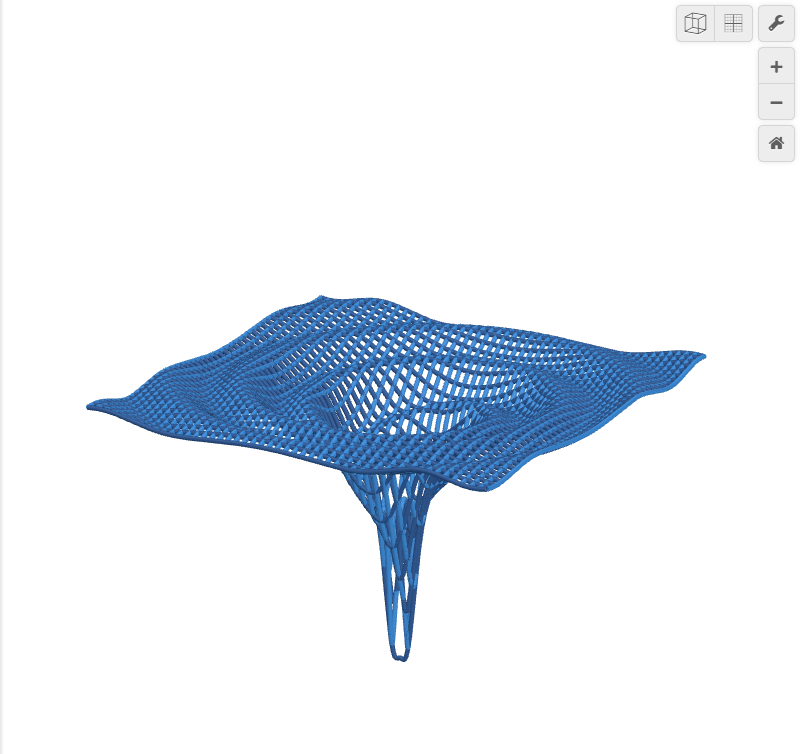
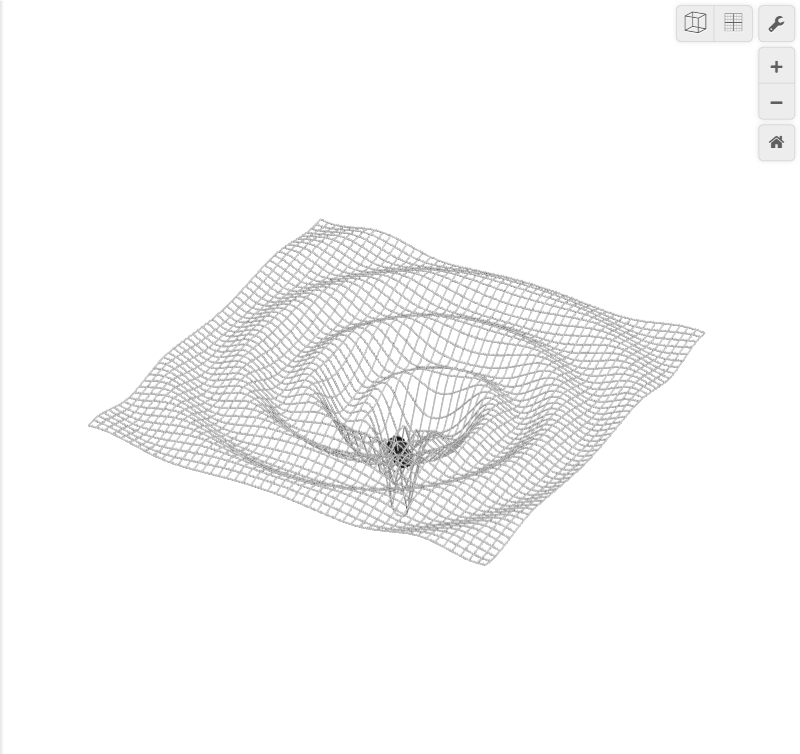
feat(visual): hairline grey fabric, floating black-hole dots, slow smooth playback
Light-grey 0.3-width fabric; two mass-sized black dots that float above the
local fabric height and merge into one larger dot at T_m + plunge; wider and
shallower wells, higher camera and a gentler merger peak so the dots are never
hidden; 45 s / 0.01-step playback. Checkpoints re-captured on a GPU-backed
browser; docs updated.

Changed region(s): [[0.0938, 0.2745, 0.875, 0.8846], [0.9062, 0.0, 0.9375, 0.061], [0.8438, 0.0, 0.875, 0.061]]

diff --git a/scripts/build_state.py b/scripts/build_state.py
@@ -44,8 +44,8 @@ ex["time_T"]["slider"].update(min="0", max="18", step="0.05")
 for i, v, lo, hi in [
     ("time_Tm", "T_{m}=10", 4, 14), ("rad_R0", "R_{0}=5", 2, 7),
     ("mass_m1", "M_{1}=1", 0.2, 3), ("mass_m2", "M_{2}=1", 0.2, 3),
-    ("amp_A", "A=1.7", 0.2, 4), ("scale_S", "S=2.2", 0, 5),
-    ("eps", "e_{0}=0.8", 0.3, 2), ("wave_v", "v_{w}=2.2", 0.8, 4),
+    ("amp_A", "A=1.2", 0.2, 4), ("scale_S", "S=2.2", 0, 5),
+    ("eps", "e_{0}=1", 0.3, 2), ("wave_v", "v_{w}=2.2", 0.8, 4),
 ]:
     upsert(i, v, hidden=False)
     slider(i, lo, hi)
@@ -55,8 +55,8 @@ slider("wave_Q", 1, 8)
 # --- physical constants and derived scales -----------------------------------
 upsert("phys_qc", r"q_{c}=0.6")                 # R_c / R_0 = 6M / 10M (ISCO contact)
 upsert("phys_dp", r"\Delta_{p}=0.6")            # plunge duration (animation time)
-upsert("phys_gr", r"g_{r}=1.8")                 # ringdown / contact frequency ratio (real ~3.9, capped: mesh resolution)
-upsert("phys_ap", r"A_{p}=1.6")                 # peak merger amplitude (relative)
+upsert("phys_gr", r"g_{r}=1.5")                 # ringdown / contact frequency ratio (real ~3.9, capped: mesh resolution)
+upsert("phys_ap", r"A_{p}=0.85")                 # peak merger amplitude (relative)
 upsert("phys_ai", r"a_{i}=0.22")                # inspiral amplitude at contact (relative)
 upsert("phys_er", r"\epsilon_{r}=0.046")        # fraction of mass radiated (GW150914: ~3 of 65 Msun)
 upsert("phys_eta", r"\eta=\frac{M_{1}M_{2}}{\left(M_{1}+M_{2}\right)^{2}}")
@@ -95,12 +95,31 @@ upsert("func_ztotal", r"Z\left(x,y,T\right)=z_{g}\left(x,y,T\right)+z_{w}\left(x
 HALF, STEP = 6.0, 0.25
 n = int(round(2 * HALF / STEP)) + 1
 ex["grid_list"]["latex"] = r"L_{g}=\left[" + ",".join(f"{-HALF + STEP * i:g}" for i in range(n)) + r"\right]"
-for i, col in (("grid_lines_x", "#1d4e89"), ("grid_lines_y", "#2f80c9")):
+for i in ("grid_lines_x", "grid_lines_y"):
+    # hairline light-grey lines: 0.3 renders as the thinnest line on a GPU-backed browser
     ex[i].update(domain={"min": str(-HALF), "max": str(HALF)},
-                 parametricDomain={"min": str(-HALF), "max": str(HALF)}, color=col, lineWidth="1")
+                 parametricDomain={"min": str(-HALF), "max": str(HALF)}, color="#bdbdbd", lineWidth="0.3")
 
-# --- markers hidden; trails ride the fabric ----------------------------------
-for i in ("bh_point1", "bh_point2", "ring_bh1", "ring_bh2"):
+# --- slow, fluid playback: 45 s per sweep of T, fine step ---------------------
+ex["time_T"]["slider"].update(animationPeriod=45000, step="0.01")
+
+# --- black holes: small black dots that ride the fabric, then merge into one bigger dot
+LIFT = 0.7  # dots float this far above the local fabric height Z, so they always sit on top of the mesh
+
+def bh_point(px, py, cond):
+    return (r"\left(" + px + "," + py + r",Z\left(" + px + "," + py + r",T\right)+" + str(LIFT) + r"\right)"
+            r"\left\{" + cond + r"\right\}")
+
+BEFORE, AFTER = r"T<T_{m}+\Delta_{p}", r"T\ge T_{m}+\Delta_{p}"
+# size grows with mass (horizon radius ~ mass); the merged dot carries the radiated-mass deficit f_m
+for i, (xf, yf), m in (("bh_point1", ("x_{1}\\left(T\\right)", "y_{1}\\left(T\\right)"), "M_{1}"),
+                       ("bh_point2", ("x_{2}\\left(T\\right)", "y_{2}\\left(T\\right)"), "M_{2}")):
+    ex[i].update(latex=bh_point(xf, yf, BEFORE), color="#000000", pointSize="1+3*" + m,
+                 hidden=False)
+    ex[i].pop("movablePointSize", None)
+upsert("bh_merged", bh_point("0", "0", AFTER), hidden=False, color="#000000",
+       pointSize=r"1+3\left(M_{1}+M_{2}\right)f_{m}\left(T\right)")
+for i in ("ring_bh1", "ring_bh2"):
     ex[i]["hidden"] = True
 for i, (xf, yf) in (("trail_obj1", ("x_{1}", "y_{1}")), ("trail_obj2", ("x_{2}", "y_{2}"))):
     px, py = xf + r"\left(t\cdot T\right)", yf + r"\left(t\cdot T\right)"
@@ -116,7 +135,7 @@ def world_rotation(yaw, elev):
     return [round(v, 6) for v in (r0[0], r1[0], r2[0], r0[1], r1[1], r2[1], r0[2], r1[2], r2[2])]
 
 vp = dict(xmin=-6.8, xmax=6.8, ymin=-6.8, ymax=6.8, zmin=-4.8, zmax=4.8)
-s["graph"].update(viewport=vp, worldRotation3D=world_rotation(30, 18),
+s["graph"].update(viewport=vp, worldRotation3D=world_rotation(30, 34),
                   showBox3D=False, showPlane3D=False, showAxis3D=False,
                   axis3D=[False, False, False], showGrid=False)
 s["graph"]["__v12ViewportLatexStash"] = {k: str(v) for k, v in vp.items()}
@@ -132,8 +151,9 @@ groups = [
      ["func_R", "func_phi", "coord_x1", "coord_y1", "coord_x2", "coord_y2", "dist_r1", "dist_r2",
       "dist_rc", "func_fm", "func_zgrav", "func_amp", "func_ur", "func_zwave", "func_ztotal"]),
     ("f_fabric", "Spacetime fabric", True, ["grid_list", "grid_lines_x", "grid_lines_y"]),
+    ("f_bh", "Black holes", True, ["bh_point1", "bh_point2", "bh_merged"]),
     ("f_optional", "Optional markers (hidden)", True,
-     ["trail_obj1", "trail_obj2", "bh_point1", "bh_point2", "rg1", "rg2", "ring_bh1", "ring_bh2"]),
+     ["trail_obj1", "trail_obj2", "rg1", "rg2", "ring_bh1", "ring_bh2"]),
 ]
 title = {"type": "text", "id": "note_title",
          "text": ("Binary merger and spacetime ripple. A mathematical visualization inspired by general "

diff --git a/docs/PARAMETERS.md b/docs/PARAMETERS.md
@@ -6,13 +6,13 @@ Defaults are written by `scripts/build_state.py`.
 
 | Symbol | Desmos id | Default | Range | Controls |
 |---|---|---|---|---|
-| `T` | `time_T` | `1` | 0 to 18 | Master clock. Press play. |
+| `T` | `time_T` | `1` | 0 to 18 | Master clock. Press play: one sweep takes 45 s (`animationPeriod`), in steps of 0.01. |
 | `T_m` | `time_Tm` | `10` | 4 to 14 | Time at which the binary reaches contact (merger rate). |
 | `R_0` | `rad_R0` | `5` | 2 to 7 | Starting separation in grid units (10 M). |
 | `M_1`, `M_2` | `mass_m1`, `mass_m2` | `1`, `1` | 0.2 to 3 | Masses: well depths, barycentre, and `eta`, which sets the number of orbits. |
-| `A` | `amp_A` | `1.7` | 0.2 to 4 | Well depth (visualization scale). |
+| `A` | `amp_A` | `1.2` | 0.2 to 4 | Well depth (visualization scale). |
 | `S` | `scale_S` | `2.2` | 0 to 5 | Ripple amplification (visualization only). |
-| `e_0` | `eps` | `0.8` | 0.3 to 2 | Well softening. |
+| `e_0` | `eps` | `1` | 0.3 to 2 | Well softening (larger: wider, shallower dips). |
 | `v_w` | `wave_v` | `2.2` | 0.8 to 4 | Ripple propagation speed (display speed). |
 | `Q_f` | `wave_Q` | `3.3` | 1 to 8 | Ringdown quality factor. Higher rings longer. |
 
@@ -22,8 +22,8 @@ Defaults are written by `scripts/build_state.py`.
 |---|---|---|---|
 | `q_c` | `phys_qc` | `0.6` | Contact radius over start radius, `6M/10M`. |
 | `Delta_p` | `phys_dp` | `0.6` | Plunge duration (animation time). |
-| `g_r` | `phys_gr` | `1.8` | Ringdown over contact GW frequency (real about 3.9; capped for grid resolution). |
-| `A_p` | `phys_ap` | `1.6` | Merger peak wave amplitude, relative. |
+| `g_r` | `phys_gr` | `1.5` | Ringdown over contact GW frequency (real about 3.9; capped for grid resolution). |
+| `A_p` | `phys_ap` | `0.85` | Merger peak wave amplitude, relative. |
 | `a_i` | `phys_ai` | `0.22` | Inspiral wave amplitude at contact, relative. |
 | `epsilon_r` | `phys_er` | `0.046` | Mass fraction radiated (GW150914: 3 of 65 solar masses). |
 
@@ -32,5 +32,7 @@ Defaults are written by `scripts/build_state.py`.
 `eta = M1 M2 / (M1+M2)^2` (`phys_eta`), `tau_p = T_m / (1 - q_c^4)` (`phys_tau`), `Phi_c = 7.127 / eta` (`phys_Phic`), and `Omega_c` (`phys_Omc`), the orbital angular frequency at contact.
 
 Fixed in the equations: the plunge exponent 1.5, the frequency-ramp shape, the wave fade-in time 0.8, the radial decay 0.35, and the well exponent 1.4 (`WELL_EXP` in the build script).
+
+Black-hole dots: `LIFT = 0.7` (height above the local fabric) and size `1 + 3 M` in `scripts/build_state.py`.
 
 Grid density: `HALF = 6`, `STEP = 0.25` in `scripts/build_state.py` (49 lines per direction).

diff --git a/docs/VISUALIZATION.md b/docs/VISUALIZATION.md
@@ -12,9 +12,9 @@ with `t` in [-6, 6] and `L_g` a list of 49 grid coordinates (spacing 0.25). Ever
 
 ## Look
 
-- Two blue tones for the two line families (`#1d4e89`, `#2f80c9`) at the minimum line width (Desmos does not go thinner than 1). Density, not line weight, gives the fabric feel.
+- Light-grey (`#bdbdbd`) hairline lines: `lineWidth` 0.3, which a GPU-backed browser draws as the thinnest line (software renderers clamp to 1 and look heavier). The mesh is subtle and reads as fabric.
 - The Desmos box, plane grid and axes are switched off in the state (`showBox3D`, `showPlane3D`, `showAxis3D`, `axis3D`), so only the fabric is drawn.
-- The black object markers and rings are hidden. The orbital trails are hidden by default and ride the fabric (`z = z_g` along the path) when switched on.
+- **Black holes**: two small black dots (size grows with mass) ride the wells, floating 0.7 above the local fabric height so they always sit on top of the mesh. At `T_m + Delta_p` they are replaced by one larger dot for the merged hole. The horizon rings stay hidden. The orbital trails are hidden by default and ride the fabric (`z = z_g` along the path) when switched on.
 - The viewport is x, y in [-7.5, 7.5] and z in [-5, 5].
 
 ## Stage guide
@@ -36,4 +36,4 @@ Checkpoints are in `assets/screenshots/checkpoints/`.
 
 ## Camera
 
-The default view is stored in the state as `graph.worldRotation3D`: a column-major 3x3 rotation that must be horizon-level (Desmos discards it otherwise). `scripts/build_state.py` builds it from a yaw and elevation (`world_rotation(yaw=30, elev=18)`). A low elevation shows funnel depth and ripple heights; about 50 degrees shows the ring and quadrupole pattern from above. The viewport is x, y in [-6.8, 6.8] and z in [-4.8, 4.8].
+The default view is stored in the state as `graph.worldRotation3D`: a column-major 3x3 rotation that must be horizon-level (Desmos discards it otherwise). `scripts/build_state.py` builds it from a yaw and elevation (`world_rotation(30, 34)`). A low elevation shows funnel depth and ripple heights; about 50 degrees shows the ring and quadrupole pattern from above. The viewport is x, y in [-6.8, 6.8] and z in [-4.8, 4.8].

diff --git a/docs/EXPERIMENTS.md b/docs/EXPERIMENTS.md
@@ -44,3 +44,11 @@
 - **Verification with Playwright MCP** on a real GPU (AMD Radeon 860M): 52 expressions, 0 errors; redraw while stepping `T` had a median of 11 ms and p90 of 17 ms. Live tuning dropped the inspiral amplitude `a_i` from 0.35 to 0.22 so the two wells stay visible before contact.
 - **Findings**: at `T = 10.4` a single deep remnant funnel with an outgoing wave train; by `T = 15` the ringdown has decayed and the remnant is settled. The real ringdown/contact frequency ratio (about 3.9) is capped at 1.8 so the wavelength stays resolvable by the 0.25 mesh.
 - **Tooling note**: the Playwright MCP sandbox has no `require`, so `scripts/make_mcp_loader.py` embeds the state in a snippet loaded via `browser_run_code_unsafe`'s `filename` argument (inside the MCP's allowed root).
+
+## Experiment 007: Subtle fabric, black-hole dots, slow playback
+- **Date**: 2026-09-20
+- **Fabric**: hairline light-grey lines (`lineWidth` 0.3, `#bdbdbd`). On a real-GPU browser this renders as the thinnest line; the headless software renderer clamps widths below 1, so checkpoints are now captured with Playwright MCP in a GPU-backed browser, not `render_checkpoints.js`.
+- **Black holes**: `bh_point1`, `bh_point2` (size `1 + 3 M_i`) and `bh_merged` (size `1 + 3 (M1+M2) f_m`, so the merged dot is visibly larger and reflects the radiated mass). Desmos accepted expression-valued `pointSize` and domain-restricted points (`{T < T_m + Delta_p}`).
+- **Dots on top of the fabric**: dots exactly on the surface looked sunk into the deep, narrow wells and were veiled by the mesh. Fixes: dots lifted 0.7 above `Z`; wells widened and made shallower (`A` 1.7 to 1.2, `e_0` 0.8 to 1); camera elevation 18 to 34 degrees; merger peak `A_p` 1.6 to 0.85 and `g_r` 1.8 to 1.5 so the ringdown wall no longer hides the merged hole.
+- **Playback**: slider `animationPeriod` 45000 ms with step 0.01. Measured by pressing the play button: 0.404 T per second, 44.6 s per sweep.
+- **Tooling note**: the `isPlaying` API flag did not start playback; clicking the "Play T Animation" button did.

diff --git a/docs/EQUATIONS.md b/docs/EQUATIONS.md
@@ -12,8 +12,8 @@
 |---|---|---|
 | `phys_qc` | `q_c = 0.6` (`R_c/R_0 = 6M/10M`) | Established (ISCO) |
 | `phys_dp` | `Delta_p = 0.6` plunge duration | Visualization only |
-| `phys_gr` | `g_r = 1.8` ringdown/contact frequency ratio | Approximation (real about 3.9) |
-| `phys_ap`, `phys_ai` | `A_p = 1.6`, `a_i = 0.22` relative wave amplitudes | Phenomenological |
+| `phys_gr` | `g_r = 1.5` ringdown/contact frequency ratio | Approximation (real about 3.9) |
+| `phys_ap`, `phys_ai` | `A_p = 0.85`, `a_i = 0.22` relative wave amplitudes | Phenomenological |
 | `phys_er` | `epsilon_r = 0.046` radiated mass fraction | Established (GW150914) |
 | `phys_eta` | `eta = M1 M2 / (M1+M2)^2` | Established |
 | `phys_tau` | `tau_p = T_m / (1 - q_c^4)` | Established (Peters, rescaled) |
@@ -49,6 +49,8 @@
 | `grid_list` | `L_g = [-6, -5.75, ..., 6]` (49 values) | Grid coordinates |
 | `grid_lines_x`, `grid_lines_y` | `(t, L_g, Z(t, L_g, T))`, `(L_g, t, Z(L_g, t, T))`, t in [-6, 6] | Fabric lines |
 | `trail_obj1`, `trail_obj2` | Orbital tracks along the well floor | Hidden by default |
-| `bh_point1`, `bh_point2`, `ring_bh1`, `ring_bh2`, `rg1`, `rg2` | Markers | Hidden |
+| `bh_point1`, `bh_point2` | `(x_i(T), y_i(T), Z(x_i, y_i, T) + 0.7)` for `T < T_m + Delta_p`, size `1 + 3 M_i` | Black holes: small dots floating on top of the fabric |
+| `bh_merged` | `(0, 0, Z(0, 0, T) + 0.7)` for `T >= T_m + Delta_p`, size `1 + 3 (M_1 + M_2) f_m` | The merged, larger black hole |
+| `ring_bh1`, `ring_bh2`, `rg1`, `rg2` | Horizon rings and radii | Hidden |
 
 Removed in this version: `wave_k`, `wave_sig` (replaced by the ringdown quality factor `wave_Q`) and `func_zinsp` (its role is now inside `func_zwave`).

diff --git a/README.md b/README.md
@@ -65,7 +65,8 @@ The entire simulation is unified under a single master simulation clock $T$:
 ### 4. Pure 3D Deformable Grid Representation
 - Spacetime is rendered through intersecting parametric space curves over coordinate array $L_g$:
   $$\mathbf{r}_x(t) = \big(t,\; L_g,\; Z(t, L_g, T)\big), \quad \mathbf{r}_y(t) = \big(L_g,\; t,\; Z(L_g, t, T)\big)$$
-- A dense 49 x 49 mesh (spacing 0.25, extent ±6) of thin blue lines, with the Desmos box, plane and axes switched off, so only the fabric is drawn and the lines themselves plunge into the wells and ripple with waves.
+- A dense 49 x 49 mesh (spacing 0.25, extent ±6) of hairline light-grey lines, with the Desmos box, plane and axes switched off, so only the fabric is drawn and the lines themselves dip into the wells and ripple with waves.
+- Two small black dots (the black holes) float on top of the fabric in the wells, then merge into one larger dot. Playback is slow (45 s per sweep) and smooth (step 0.01).
 
 ---
 
@@ -77,9 +78,9 @@ The entire simulation is unified under a single master simulation clock $T$:
 | `T_m` | $T_m$ | `10` | Time of contact (merger) |
 | `R_0` | $R_0$ | `5` | Starting separation (10 M) in grid units |
 | `M_1, M_2` | $M_1, M_2$ | `1, 1` | Masses (well depth, barycentre, orbit count) |
-| `A` | $A$ | `1.7` | Well depth (visualization scale) |
+| `A` | $A$ | `1.2` | Well depth (visualization scale) |
 | `S` | $S$ | `2.2` | Ripple amplification (visualization only) |
-| `e_0` | $e_0$ | `0.8` | Well softening |
+| `e_0` | $e_0$ | `1` | Well softening |
 | `v_w` | $v_w$ | `2.2` | Ripple propagation speed (display speed) |
 | `Q_f` | $Q_f$ | `3.3` | Ringdown quality factor |
 

diff --git a/docs/MODEL.md b/docs/MODEL.md
@@ -46,7 +46,7 @@ Geometric units `G = c = 1`, lengths in units of the total mass `M = m1 + m2` (s
 ## Merger (Approximation)
 
 - **Plunge**: for `T_m <= T < T_m + Delta_p`, `R = R_c (1 - x)^1.5` with `x = (T - T_m)/Delta_p`, reaching 0. This is a phenomenological plunge, not a geodesic.
-- **Frequency ramp**: the GW frequency rises from the contact value to `g_r` times it. The real ratio is about 3.9 (ringdown `M w = 0.53` against `2 Omega_isco = 2 * 6^(-3/2) = 0.136`); it is capped at `g_r = 1.8` so the shortest wavelength stays resolvable by the 0.25 grid.
+- **Frequency ramp**: the GW frequency rises from the contact value to `g_r` times it. The real ratio is about 3.9 (ringdown `M w = 0.53` against `2 Omega_isco = 2 * 6^(-3/2) = 0.136`); it is capped at `g_r = 1.5` so the shortest wavelength stays resolvable by the 0.25 grid.
 - **Radiated mass**: the well mass is scaled by `f_m = 1 - 0.046 * clamp((T - T_m)/Delta_p)`. GW150914 radiated about 3 of 65 solar masses.
 
 ## Wells (Approximation, Visualization only)
